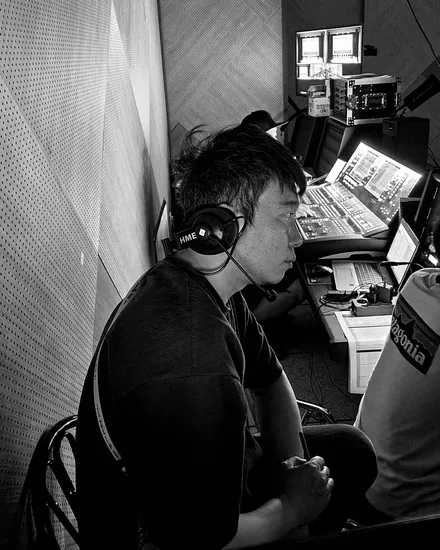
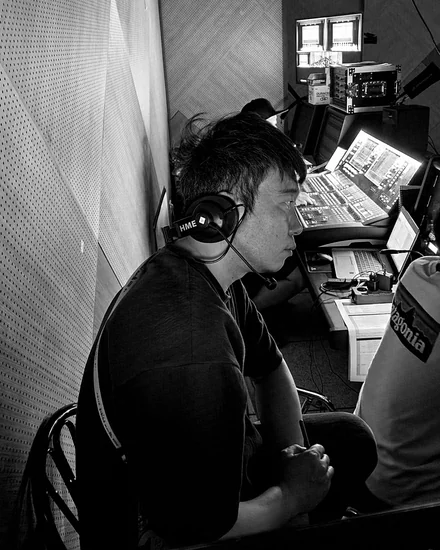
About 프로필 사진 정본 적용: 2025김영근 원본 기반 profile.webp 교체 및 배포 ⓐ

diff --git a/data/projects.js b/data/projects.js
@@ -15,7 +15,7 @@ window.SITE = {
   email: "creativeoncompany@gmail.com",
   since: 2011,
   // 프로필 사진. 영근님 확인 후 assets/img 에 넣고 파일명(확장자 제외)을 적는다. 예: "profile"
-  profile: "profile-2025",
+  profile: "profile",
   // 문의 폼 엔드포인트. Formspree 가입 후 "https://formspree.io/f/xxxxxxx" 로 교체.
   // 비어 있으면 자동으로 이메일 앱(mailto)으로 전송된다.
   form_endpoint: ""
